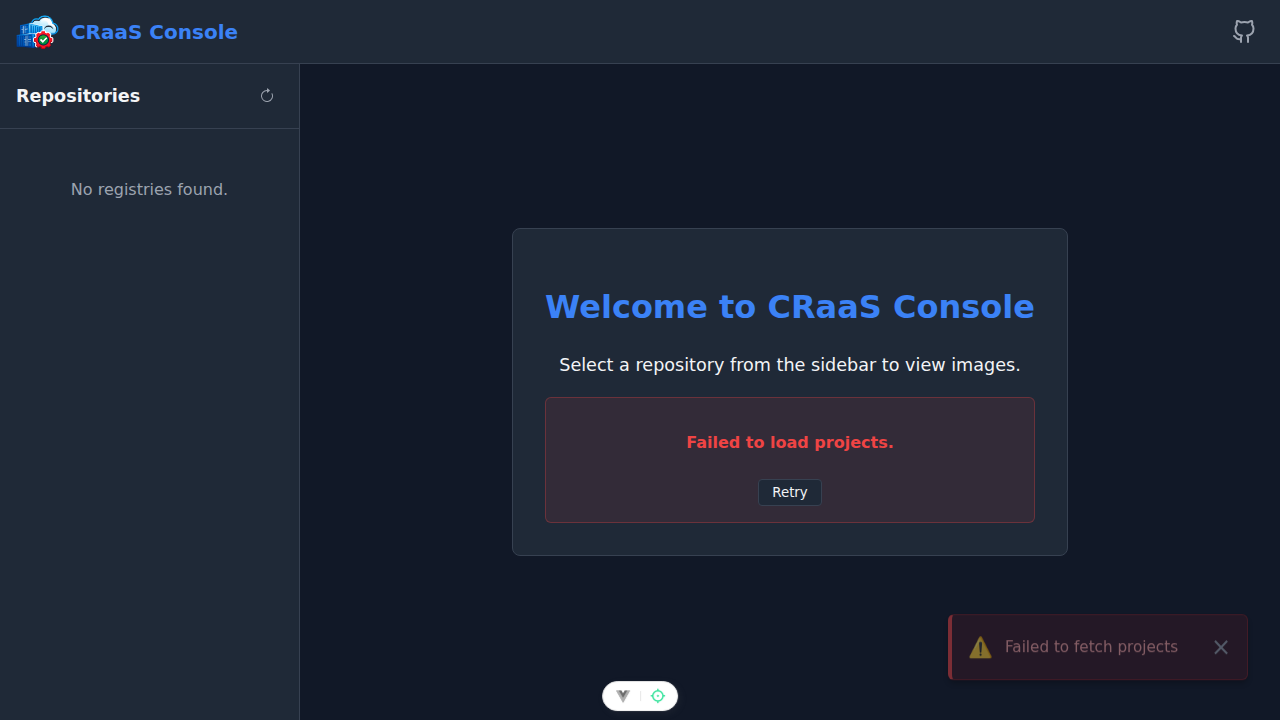
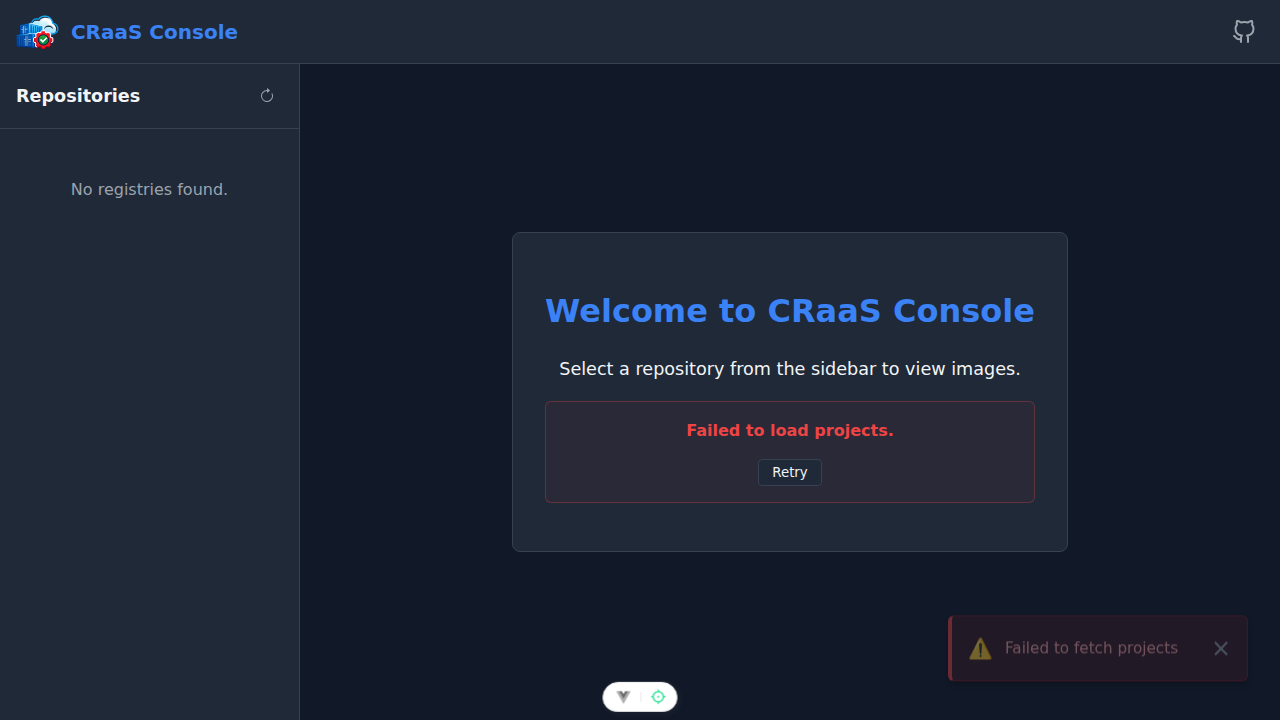
refactor: Unify error handling UI with reusable ErrorState component
- Extracted duplicated error UI logic into `frontend/src/components/ErrorState.vue`.
- Refactored `HomeView.vue`, `ImageList.vue`, and `RegistrySettings.vue` to use the new component.
- Standardized error styling across the application.
- Removed duplicated SCSS.

diff --git a/frontend/src/views/RegistrySettings.vue b/frontend/src/views/RegistrySettings.vue
@@ -20,10 +20,11 @@
 
     <div class="card info-card">
         <h3>Registry Information</h3>
-        <div v-if="store.error" class="error-msg">
-            <p>Failed to load registry info.</p>
-            <button @click="fetchData" class="btn small-btn">Retry</button>
-        </div>
+        <ErrorState
+            v-if="store.error"
+            title="Failed to load registry info."
+            :retry="fetchData"
+        />
         <div v-else class="info-grid">
             <div class="info-item">
                 <span class="label">ID:</span>
@@ -56,9 +57,10 @@
         </p>
 
         <div v-if="store.gcLoading" class="loading">Loading GC info...</div>
-        <div v-else-if="store.error && !store.gcInfo" class="error-msg">
-             Failed to load GC info.
-        </div>
+        <ErrorState
+            v-else-if="store.error && !store.gcInfo"
+            title="Failed to load GC info."
+        />
         <div v-else-if="store.gcInfo" class="gc-stats">
             <div class="stat">
                 <span class="stat-label">Potential Savings</span>
@@ -116,6 +118,7 @@ import { onMounted, computed, watch, ref } from 'vue'
 import { useRoute, useRouter } from 'vue-router'
 import ConfirmModal from '@/components/ConfirmModal.vue'
 import ToastNotification from '@/components/ToastNotification.vue'
+import ErrorState from '@/components/ErrorState.vue'
 
 const route = useRoute()
 const router = useRouter()
@@ -314,29 +317,6 @@ const confirmDelete = async () => {
     }
 }
 
-.error-msg {
-    padding: 1rem;
-    margin-bottom: 1rem;
-    background-color: rgba($danger-color, 0.1);
-    color: $danger-color;
-    border-radius: 4px;
-    display: flex;
-    justify-content: space-between;
-    align-items: center;
-
-    p { margin: 0; font-weight: bold; }
-
-    .btn {
-        background-color: $card-bg;
-        border: 1px solid rgba($danger-color, 0.3);
-        color: $text-color;
-        padding: 0.3rem 0.8rem;
-
-        &:hover {
-            background-color: color.adjust($card-bg, $lightness: 5%);
-        }
-    }
-}
 
 .success-msg {
     padding: 1rem;

diff --git a/frontend/src/views/HomeView.vue b/frontend/src/views/HomeView.vue
@@ -4,10 +4,11 @@
       <h1>Welcome to CRaaS Console</h1>
       <p>Select a repository from the sidebar to view images.</p>
 
-      <div v-if="store.error" class="error-container">
-          <p class="error-text">Failed to load projects.</p>
-          <button @click="store.fetchProjects" class="btn small-btn">Retry</button>
-      </div>
+      <ErrorState
+        v-if="store.error"
+        title="Failed to load projects."
+        :retry="store.fetchProjects"
+      />
 
       <p class="hint" v-else-if="store.loading">Loading projects...</p>
       <p class="hint" v-else-if="store.selectedProjectId">Current Project: {{ store.selectedProjectId }}</p>
@@ -26,6 +27,7 @@
 <script setup lang="ts">
 import { useRegistryStore } from '@/stores/registry'
 import ToastNotification from '@/components/ToastNotification.vue'
+import ErrorState from '@/components/ErrorState.vue'
 const store = useRegistryStore()
 </script>
 
@@ -52,34 +54,4 @@ const store = useRegistryStore()
     .hint { color: $secondary-color; font-size: 0.9rem; margin-top: 1rem; }
 }
 
-.error-container {
-    margin-top: 1rem;
-    padding: 1rem;
-    background-color: rgba($danger-color, 0.1);
-    border: 1px solid rgba($danger-color, 0.3);
-    border-radius: 6px;
-    display: flex;
-    flex-direction: column;
-    align-items: center;
-    gap: 0.5rem;
-
-    .error-text {
-        color: $danger-color;
-        font-weight: bold;
-        font-size: 1rem;
-    }
-
-    .btn {
-        background-color: $card-bg;
-        border: 1px solid $border-color;
-        color: $text-color;
-        padding: 0.3rem 0.8rem;
-        border-radius: 4px;
-        cursor: pointer;
-
-        &:hover {
-            background-color: color.adjust($card-bg, $lightness: 5%);
-        }
-    }
-}
 </style>

diff --git a/frontend/src/views/ImageList.vue b/frontend/src/views/ImageList.vue
@@ -77,10 +77,11 @@
          </span>
       </div>
 
-      <div v-if="store.error && !store.imagesLoading" class="error-state">
-          <p>Failed to load images.</p>
-          <button @click="fetchData" class="btn small-btn">Retry</button>
-      </div>
+      <ErrorState
+        v-if="store.error && !store.imagesLoading"
+        title="Failed to load images."
+        :retry="fetchData"
+      />
       <div v-else-if="filteredImages.length === 0 && !store.imagesLoading" class="empty-state">No images found.</div>
       <div
         v-else
@@ -220,6 +221,7 @@ import { onMounted, onUnmounted, computed, ref, watch, useTemplateRef } from 'vu
 import { useRoute, useRouter } from 'vue-router'
 import ToastNotification from '@/components/ToastNotification.vue'
 import ConfirmModal from '@/components/ConfirmModal.vue'
+import ErrorState from '@/components/ErrorState.vue'
 import { useConfirmModal } from '@/composables/useConfirmModal'
 
 const router = useRouter()
@@ -652,31 +654,6 @@ const copyToClipboard = (text: string, id: string) => {
     border-radius: 8px;
 }
 
-.error-state {
-    @extend .empty-state;
-    color: $danger-color;
-    border-color: rgba($danger-color, 0.3);
-    background-color: rgba($danger-color, 0.05);
-    display: flex;
-    flex-direction: column;
-    align-items: center;
-    gap: 1rem;
-
-    p {
-        margin: 0;
-        font-weight: bold;
-    }
-
-    button {
-        background-color: $card-bg;
-        border: 1px solid $border-color;
-        color: $text-color;
-
-        &:hover {
-            background-color: color.adjust($card-bg, $lightness: 5%);
-        }
-    }
-}
 
 .list-controls {
     display: flex;

diff --git a/frontend/src/components/ErrorState.vue b/frontend/src/components/ErrorState.vue
@@ -1,0 +1,53 @@
+<template>
+  <div class="error-state">
+    <p>{{ title }}</p>
+    <button v-if="retry" @click="retry" class="btn small-btn">Retry</button>
+  </div>
+</template>
+
+<script setup lang="ts">
+defineProps<{
+  title?: string
+  retry?: () => void
+}>()
+</script>
+
+<style scoped lang="scss">
+@use "sass:color";
+@use '@/assets/main.scss' as *;
+
+.error-state {
+    padding: 1rem;
+    color: $danger-color;
+    border: 1px solid rgba($danger-color, 0.3);
+    background-color: rgba($danger-color, 0.05);
+    border-radius: 6px;
+    display: flex;
+    flex-direction: column;
+    align-items: center;
+    gap: 1rem;
+    text-align: center;
+    margin: 1rem 0;
+
+    p {
+        margin: 0;
+        font-weight: bold;
+        font-size: 1rem;
+    }
+
+    button {
+        background-color: $card-bg;
+        border: 1px solid $border-color;
+        color: $text-color;
+        padding: 0.3rem 0.8rem;
+        border-radius: 4px;
+        cursor: pointer;
+        font-weight: 500;
+        transition: background-color 0.2s;
+
+        &:hover {
+            background-color: color.adjust($card-bg, $lightness: 5%);
+        }
+    }
+}
+</style>

diff --git a/verification/verify_global_error_handling.py b/verification/verify_global_error_handling.py
@@ -12,7 +12,8 @@ def test_home_error_handling(page: Page):
     page.goto("http://localhost:5174/")
 
     # Check for error container in HomeView
-    error_container = page.locator(".error-container")
+    # Refactored to use ErrorState component with class .error-state
+    error_container = page.locator(".error-state")
     expect(error_container).to_be_visible(timeout=5000)
     expect(error_container).to_contain_text("Failed to load projects.")
 
